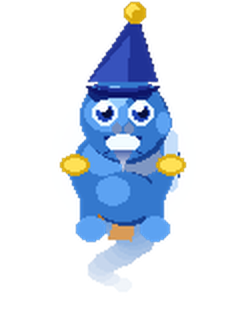
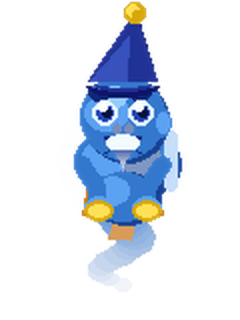
style: shorten all spread arms ~30% — less rubber genie, more charm
scared/drag arms: reach 36→25, height 26→18, forearm 24→16
drifting/walk arms: shoulder 24→20, upper 16→11, forearm 14→9
grab frame: shoulder 22→16, reach 30→22, height 16→11
cuffs stay at wrists on all poses

Changed region(s): [[0.525, 0.4688, 0.7875, 0.7812], [0.2333, 0.4688, 0.4958, 0.7812]]

diff --git a/gen_sprites.py b/gen_sprites.py
@@ -417,32 +417,30 @@ def draw_arms_drifting(draw, cx, chest_y, t):
     swing = math.sin(t * 2 * math.pi) * 8
     ay    = chest_y + 2
     for sign in [-1, 1]:
-        sx = cx + sign * 24
-        ex = cx + sign * 18 + int(swing * sign * 0.4)
-        ey = ay + 16
+        sx = cx + sign * 20       # was 24
+        ex = cx + sign * 14 + int(swing * sign * 0.4)  # was 18
+        ey = ay + 11              # was 16
         thick_line(draw, sx, ay, ex, ey, BODY_MID, w=9)
         fx = ex + int(swing * sign * 0.3)
-        fy = ey + 14
+        fy = ey + 9               # was 14
         thick_line(draw, ex, ey, fx, fy, BODY_MID, w=8)
         ell(draw, fx, fy + 2, 7, 6, BODY_LIGHT)
-        ell(draw, fx, fy + 4, 7, 5, GOLD)             # wrist cuff
-        ell(draw, fx, fy + 4, 5, 3, GOLD_LIGHT)
+        ell(draw, fx, fy + 3, 7, 5, GOLD)             # wrist cuff
+        ell(draw, fx, fy + 3, 5, 3, GOLD_LIGHT)
 
 def draw_arms_scared(draw, cx, chest_y, t):
     """Both arms flung UP in panic — thrown above head level."""
     shake = int(math.sin(t * 2 * math.pi) * 2)
     ay    = chest_y + 2 + shake
     for sign in [-1, 1]:
-        sx = cx + sign * 18       # shoulder — close to body
-        # upper arm: sharp diagonal outward + up
-        ex = cx + sign * 36
-        ey = ay - 26
+        sx = cx + sign * 14       # shoulder
+        ex = cx + sign * 25       # was 36 — one-third shorter reach
+        ey = ay - 18              # was 26
         thick_line(draw, sx, ay, ex, ey, BODY_MID,   w=10)
-        # forearm: continues steeply upward
-        fx = cx + sign * 30
-        fy = ey - 24               # fists end up well above head
+        fx = cx + sign * 20       # was 30
+        fy = ey - 16              # was 24
         thick_line(draw, ex, ey, fx, fy, BODY_LIGHT, w=9)
-        ell(draw, fx, fy - 4, 7, 6, BODY_BRIGHT)     # fist
+        ell(draw, fx, fy - 3, 7, 6, BODY_BRIGHT)     # fist
         ell(draw, fx, fy + 1,  8, 6, GOLD)            # wrist cuff
         ell(draw, fx, fy + 1,  5, 3, GOLD_LIGHT)
 
@@ -450,13 +448,13 @@ def draw_arms_grab(draw, cx, chest_y):
     """Arms up — surprised/grabbed pose."""
     ay = chest_y - 2
     for sign in [-1, 1]:
-        sx = cx + sign * 22
-        ex = cx + sign * 30
-        ey = ay - 16
+        sx = cx + sign * 16       # was 22
+        ex = cx + sign * 22       # was 30
+        ey = ay - 11              # was 16
         thick_line(draw, sx, ay, ex, ey, BODY_MID, w=9)
         ell(draw, ex, ey - 2, 7, 6, BODY_LIGHT)
-        ell(draw, sx, ay,     7, 5, GOLD)
-        ell(draw, sx, ay,     5, 3, GOLD_LIGHT)
+        ell(draw, ex, ey + 1, 7, 5, GOLD)            # cuff at wrist, not shoulder
+        ell(draw, ex, ey + 1, 5, 3, GOLD_LIGHT)
 
 # ── poof ─────────────────────────────────────────────────────────────────────
 
